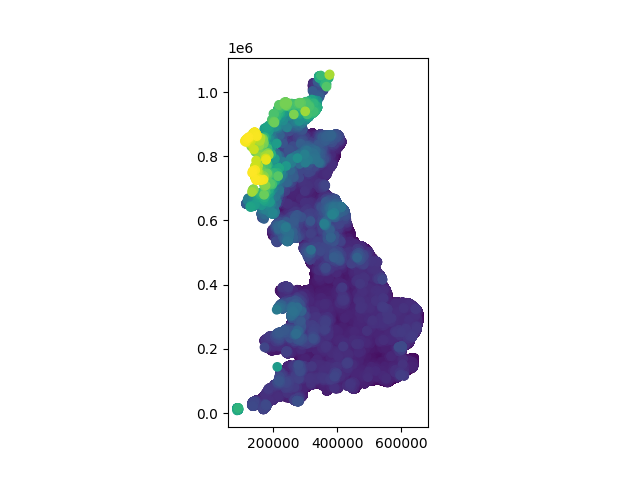
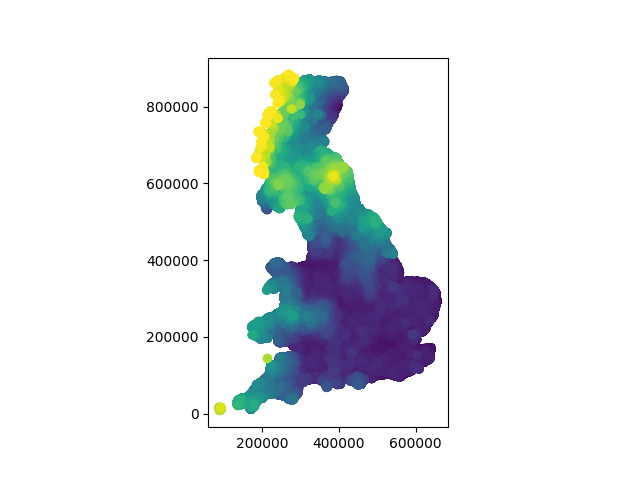
fix incorrect index values giving wrong node_id

diff --git a/scripts/health.py b/scripts/health.py
@@ -1,4 +1,5 @@
 import cudf
+import matplotlib.pyplot as plt
 import geopandas as gpd
 import pandas as pd
 
@@ -8,10 +9,16 @@ from ukroutes.process_routing import add_to_graph, add_topk
 from ukroutes.oproad.utils import process_oproad
 
 # process oproad nodes and edges
-nodes, edges = process_oproad(outdir=Paths.OS_GRAPH)  # or outdir=None
+nodes, edges = process_oproad()
 
 # read in health dataa and postcodes
-health = pd.read_parquet("./data/processed/health.parquet").dropna().sample(1000)
+health = (
+    pd.read_parquet("./data/processed/health.parquet")
+    .dropna()
+    .sample(10)
+    .reset_index(drop=True)
+)
+
 postcodes = pd.read_csv(
     "./data/raw/onspd/ONSPD_FEB_2024.csv",
     usecols=["PCD", "OSEAST1M", "OSNRTH1M", "DOTERM", "CTRY"],
@@ -24,14 +31,16 @@ postcodes = (
     .drop(columns=["DOTERM", "CTRY"])
     .rename({"PCD": "postcode", "OSEAST1M": "easting", "OSNRTH1M": "northing"}, axis=1)
     .dropna()
+    .reset_index(drop=True)
 )
 
 # add health and postcodes to road network
-health, nodes, edges = add_to_graph(health, nodes, edges, 10)
-postcodes, nodes, edges = add_to_graph(postcodes, nodes, edges, 10)
+health, nodes, edges = add_to_graph(health, nodes, edges, 1)
+postcodes, nodes, edges = add_to_graph(postcodes, nodes, edges, 1)
 
 # find the top 10 closest health facilities to each postcode
-health = add_topk(health, postcodes, 25)
+health = add_topk(health, postcodes, 10)
+
 
 # run the routing class
 routing = Routing(
@@ -42,7 +51,7 @@ routing = Routing(
     weights="time_weighted",
     min_buffer=5000,
     max_buffer=500_000,
-    cutoff=300,
+    # cutoff=300,
 )
 routing.fit()
 
@@ -54,12 +63,18 @@ distances = (
     .to_pandas()
 )
 
-import matplotlib.pyplot as plt
 
 distances = gpd.GeoDataFrame(
     distances, geometry=gpd.points_from_xy(distances.easting, distances.northing)
 )
-distances.reset_index().sort_values("distance").plot(column="distance")
+distances.loc[distances["distance"] > 60, "distance"] = 60
+distances
 
+fig, ax = plt.subplots()
+distances.reset_index().sort_values("distance").plot(
+    column="distance", cmap="viridis_r", legend=True, markersize=0.5, ax=ax
+)
+health.plot(x="easting", y="northing", color="red", ax=ax, kind="scatter", s=1)
+ax.set_axis_off()
 
 plt.savefig("./figs/health_example.png")

diff --git a/ukroutes/oproad/utils.py b/ukroutes/oproad/utils.py
@@ -146,8 +146,15 @@ def process_oproad(outdir: Paths | None = None) -> [pd.DataFrame, pd.DataFrame]:
     nodes = process_road_nodes()
 
     ferry_nodes, ferry_edges = ferry_routes(nodes)
-    nodes = pl.concat([nodes, ferry_nodes]).to_pandas()
-    edges = pl.concat([edges, ferry_edges]).to_pandas()
+    nodes = pl.concat([nodes, ferry_nodes]).to_pandas().drop_duplicates("node_id")
+    edges = (
+        pl.concat([edges, ferry_edges])
+        .to_pandas()
+        .drop_duplicates(["start_node", "end_node"])
+    )
+
+    nodes, edges = filter_deadends(cudf.from_pandas(nodes), cudf.from_pandas(edges))
+    nodes, edges = nodes.to_pandas(), edges.to_pandas()
 
     unique_node_ids = nodes["node_id"].unique()
     node_id_mapping = {
@@ -157,14 +164,14 @@ def process_oproad(outdir: Paths | None = None) -> [pd.DataFrame, pd.DataFrame]:
     edges["start_node"] = edges["start_node"].map(node_id_mapping)
     edges["end_node"] = edges["end_node"].map(node_id_mapping)
 
-    nodes, edges = filter_deadends(cudf.from_pandas(nodes), cudf.from_pandas(edges))
+    nodes, edges = cudf.from_pandas(nodes), cudf.from_pandas(edges)
 
     if outdir:
         nodes.to_pandas().to_parquet(Paths.OS_GRAPH / "nodes.parquet", index=False)
         edges.to_pandas().to_parquet(Paths.OS_GRAPH / "edges.parquet", index=False)
-        return nodes, edges
+        return nodes.reset_index(drop=True), edges.reset_index(drop=True)
     else:
-        return nodes, edges
+        return nodes.reset_index(drop=True), edges.reset_index(drop=True)
 
 
 if __name__ == "__main__":

diff --git a/ukroutes/process_routing.py b/ukroutes/process_routing.py
@@ -22,7 +22,6 @@ def add_to_graph(df, nodes, edges, k=10):
     df["node_id"] = new_node_ids.get()
     new_nodes = df[["node_id", "easting", "northing"]]
     nodes = cudf.concat([nodes, cudf.from_pandas(new_nodes)])
-
     new_edges = cudf.DataFrame(
         {
             "start_node": df.loc[np.repeat(df.index, k)].reset_index(drop=True)[
